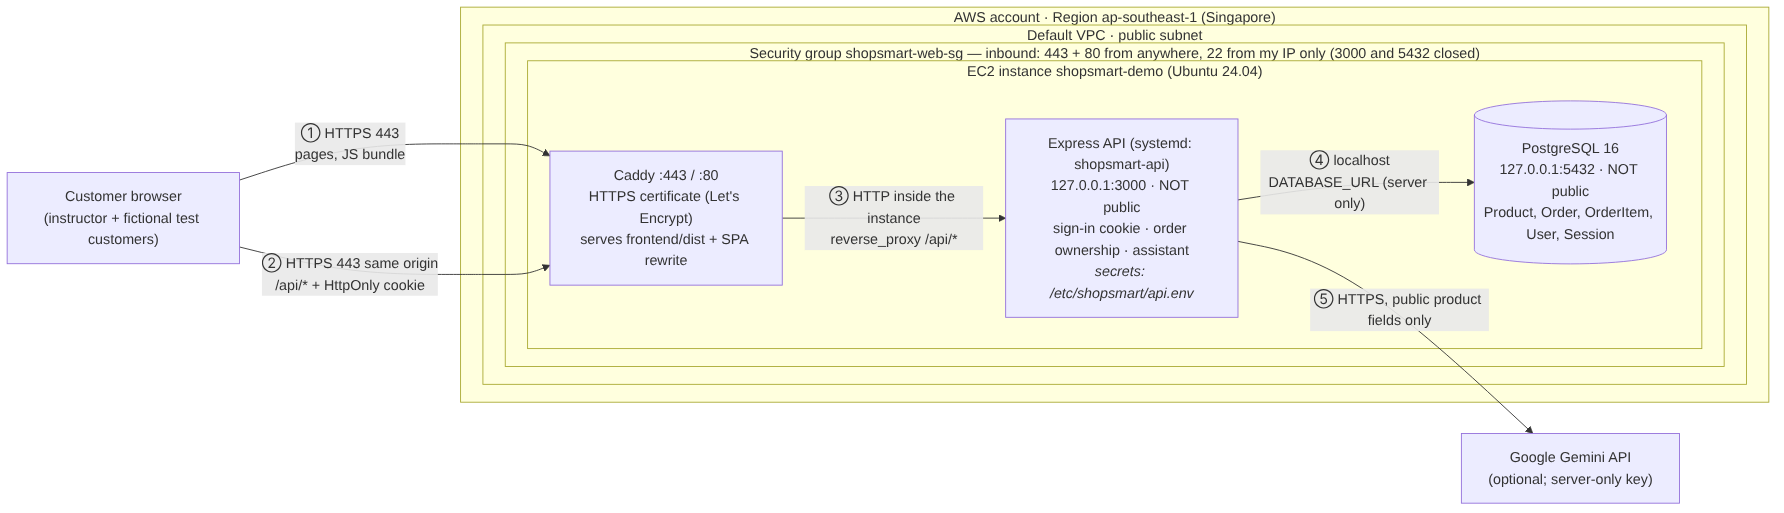
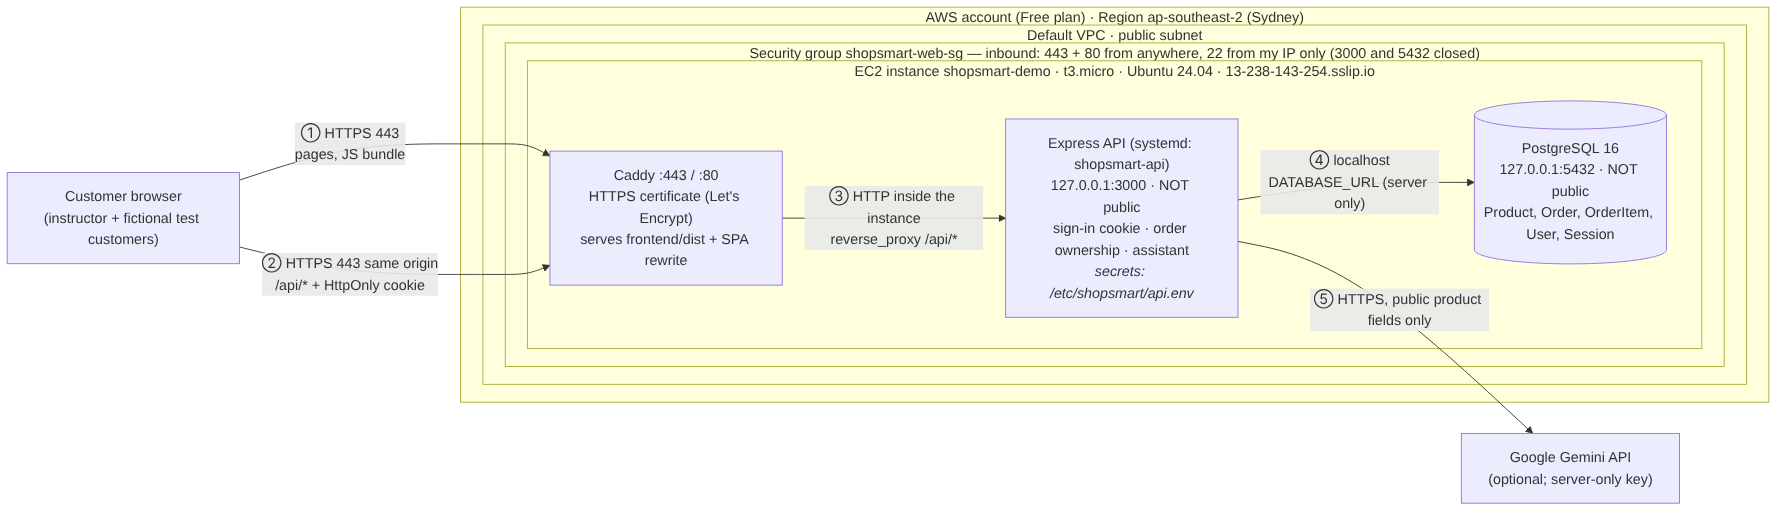
docs: record hosted AWS results for v1.2.0
- Release note, verification record and resource register filled with the real
  hosted results (21/21 before and after reboot, DB-down 200/503/200 retest)
- Region changed to ap-southeast-2 (Sydney): the Free plan project is fixed to it
- DEPLOY_AWS.md: fix Caddy log permission order, SSH keepalive, keep evidence
  files in ~ instead of /tmp, scp commands
- Failed cases F1-F3 recorded with cause, fix and retest
- Diagram re-rendered with the real Region, instance type and site address

Claude-Session: https://claude.ai/code/session_011KouwrTCNA1zyb1cfZZv31

Changed region(s): [[0.5241, 0.0, 0.7399, 0.0624], [0.4624, 0.1248, 0.7707, 0.1559]]

diff --git a/docs/AWS_VERIFICATION.md b/docs/AWS_VERIFICATION.md
@@ -1,28 +1,29 @@
 # Hosted verification record (AWS, v1.2.0)
 
-The **Expected** column was written before any test was run. Fill in **Observed** and **Result** from the real hosted site in a fresh Incognito browser. Keep the exact URL, status code and code version for every check. For a failed check, also save redacted evidence and add a row to "Failed cases".
+The **Expected** column was written before any test was run. **Observed** is from the real hosted site, tested in a fresh Incognito window on 13 Nov 2026.
 
 | | |
 | --- | --- |
-| Site URL | `https://<SITE_HOST>` = ________________________ |
-| API base | `https://<SITE_HOST>/api` (same origin) |
-| Code version | tag `v1.2.0`, commit `_______` (`git rev-parse --short HEAD` on the server) |
-| Release type | **Hosted** on AWS EC2, ap-southeast-1 (if HTTPS fails: **local**, see Plan D) |
-| Tested by / date | Lee, Prince Emmanuel C. / __ Nov 2026, __:__ to __:__ (GMT+8) |
-| Automatic run | `aws-smoke-test.json` (after deploy), `aws-smoke-after-reboot.json` (after restart) |
+| Site URL | **https://13-238-143-254.sslip.io** |
+| API base | `https://13-238-143-254.sslip.io/api` (same origin as the site) |
+| Code version | tag `v1.2.0`, commit **`3fc432f`** (checked with `git rev-parse --short HEAD` on the server) |
+| Release type | **Hosted** on AWS EC2 `shopsmart-demo` (t3.micro), Region **ap-southeast-2 (Sydney)** |
+| Tested by / date | Lee, Prince Emmanuel C. / 13 Nov 2026, 21:30–22:05 (GMT+8) |
+| Automatic runs | `aws-smoke-test.json` (21:40, **21/21**), `aws-smoke-after-reboot.json` (22:03, **21/21**) |
+| Local check before release | `npm run check`: lint, frontend tests, **backend 49/49**, build OK; local smoke **20/20** (`local-smoke-test.json`) |
 
 ## Guide checks
 
-| # | Check | Expected observation | Smoke ID / how | Observed | Result | Evidence |
-| --- | --- | --- | --- | --- | --- | --- |
-| 1 | Frontend and direct route | Home page loads with products; typing `https://<SITE_HOST>/cart` and refreshing still shows the app (no 404) | FE-01, FE-02 + browser | | | `AWS-02-home.png`, `AWS-03-direct-route-refresh.png` |
-| 2 | API connection | DevTools Network: requests go to `https://<SITE_HOST>/api/...` with no CORS or mixed-content error; `/api/health` → `{"status":"ok"}`; `/api/health/ready` → `{"status":"ok","database":"ok"}`; `http://` redirects to `https://` | API-01…04 + browser | | | `AWS-04-network-https-api.png`, `AWS-05-health-ready.png` |
-| 3 | Catalog and cart | Current products appear; search "keyboard" filters; + / − and typed quantity update totals correctly; stock limit message at max | CAT-01 + browser | | | `AWS-06-cart-totals.png` |
-| 4 | Account and order | Guest: `/api/orders/<id>` → 401. Ana (owner): 200. Ben (other customer) asking for Ana's order by direct API request → 404, and not in Ben's list | AUTH-01…08 | | | `aws-smoke-test.json`, `AWS-07-my-orders-ana.png`, `AWS-08-ben-denied.png` |
-| 5 | Simulated checkout | Signed in as Ana: fictional order saved with an order number, stock drops by the quantity; quantity 0 → 422; more than stock → 409 and nothing saved | ORD-01…04 + browser | | | `AWS-09-order-confirmed.png` |
-| 6 | Assistant | "Which keyboard is below ₱2,000?" → Compact Mechanical Keyboard ₱1,850 with a catalog source link that opens the right product; "Do you sell drones?" → honest "could not find"; provider failure → notice that the answer came from the catalog | AI-01, AI-02 + browser | | | `AWS-10-assistant.png`, `AWS-11-assistant-no-match.png` |
-| 7 | Restart and logs | After `sudo reboot` the site works again without manual steps; Ana's earlier order is still in My Orders; the API log shows each request's status and has no secrets | rerun smoke + log grep | | | `aws-smoke-after-reboot.json`, `aws-api-log-after-reboot.txt` |
-| 8 | Secrets and credits | No `.env`, `.pem` or key in Git (`git ls-files`); bundle grep clean; screenshots blurred; credits still within plan after the demo | Step 5 grep, Billing page | | | `AWS-12-credits-after.png` |
+| # | Check | Expected observation | Observed on the hosted site | Result | Evidence |
+| --- | --- | --- | --- | --- | --- |
+| 1 | Frontend and direct route | Home page loads with products; typing `/cart` directly still shows the app (no 404) | Home 200 with 6 products; `/cart` and `/orders/123` typed directly → 200, the app loads (Caddy SPA rewrite) | **Pass** | `AWS-02-home.png`, `AWS-03-direct-route-refresh.png`, smoke FE-01/02 |
+| 2 | API connection | Browser calls `https://<site>/api/...` with no CORS or mixed-content error; `/api/health` ok; `/api/health/ready` database ok; `http://` redirects to `https://` | Network: `products` 200 from the same HTTPS origin, no CORS error; `/api/health` `{"status":"ok"}`; `/api/health/ready` `{"status":"ok","database":"ok"}`; `http://` → **308** to HTTPS; CORS allows only `https://13-238-143-254.sslip.io` | **Pass** | `AWS-04-network-https-api.png`, `AWS-05-health-ready.png`, smoke API-01…04 |
+| 3 | Catalog and cart | Current products appear; quantity and totals correct | 6 products from PostgreSQL; 2 × USB-C Study Lamp = ₱1,800 | **Pass** | `AWS-06-cart-totals.png`, smoke CAT-01 |
+| 4 | Account and order | Guest → 401; owner → 200; another customer by direct API request → 404 and not listed | Guest `/api/orders` and `/api/orders/3` → **401**; Ana → **200**; Ben `/api/orders/3` → **404**, `leaked=false`; in the browser, Ben at `/orders/1` → "This order could not be found in your account."; cookie flags `HttpOnly, Secure, SameSite=Lax`; old cookie after sign-out → 401 | **Pass** | `AWS-07-my-orders-ana.png`, `AWS-08a-ben-orders-empty.png`, `AWS-08b-ben-denied-order-1.png`, smoke AUTH-01…08 |
+| 5 | Simulated checkout | Valid fictional order saved; quantity 0 → 422; more than stock → 409, nothing saved | Ana's order #2 ₱1,800.00 confirmed in the browser; smoke: quantity 0 → **422**, 13 × mouse (stock 12) → **409**, valid → **201** order #1, stock 12 → 11 | **Pass** | `AWS-09-order-confirmed.png`, smoke ORD-01…04 |
+| 6 | Assistant | Keyboard question → Compact Mechanical Keyboard ₱1,850 with a catalog source; "drones" → honest no-match; provider failure → clear notice | Keyboard ₱1,850 with source "Catalog product #2", price equals the database; "Do you sell drones?" → "could not find", 0 recommended; Gemini answered **HTTP 503** (log: `reason=ai_unavailable status=503`), so the page showed "The AI helper could not be used for this answer, so it comes straight from the catalog." | **Pass** (provider-failure path) | `AWS-10-assistant.png`, `AWS-11-assistant-no-match.png`, smoke AI-01/02, `aws-api-log-after-reboot.txt` |
+| 7 | Restart and logs | After `sudo reboot` the site works with no manual steps; earlier orders still there; logs show each request and no secrets | `up 2 min`; services `enabled`; smoke after reboot **21/21**; next order is **#3** and stock went 11 → 10, so orders #1–#2 and stock survived; log lines show method, path, status, time only; `grep` for `postgresql://`, `password=`, `AIza`, `GEMINI_API_KEY` → **OK: no secrets in API log** | **Pass** | `AWS-15-smoke-after-reboot-21-of-21.png`, `aws-smoke-after-reboot.json`, `aws-api-log-after-reboot.txt` |
+| 8 | Secrets and credits | No secret in the repository, browser bundle or screenshots; credits within plan | Bundle grep → `OK: bundle is clean`; `/etc/shopsmart/api.env` is `-rw-r----- root shopsmart`; `.env`, `*.pem` and `api.env` are in `.gitignore`; screenshots cropped (no account ID or passwords); credits US$137 on 13 Nov | **Pass** (credits after the demo: fill in) | `AWS-01-security-group.png`, `AWS_RESOURCE_REGISTER.md` |
 
 ## The two improvements and their retests
 
@@ -32,26 +33,28 @@ The exam's own list of required improvements was not available to me, so I chose
 
 | | |
 | --- | --- |
-| Problem before | ShopSmart had no sign-in. The guide requires a test customer to sign in and the API to protect private order records. v1.1 had no way to read an order back and no owner on orders. |
-| Change | `User` and `Session` tables + migration `1_add_users_sessions_order_owner`; `POST /api/auth/login`, `POST /api/auth/logout`, `GET /api/auth/me`; scrypt password hashes; random session token in an `HttpOnly; Secure; SameSite=Lax` cookie (only its SHA-256 hash is stored); checkout requires sign-in and saves `userId` from the session; `GET /api/orders` and `GET /api/orders/:id` return only the signed-in customer's orders; Sign-in and My Orders pages. |
-| Retest (expected) | Guest → 401 · Ana reads own order → 200 · Ben reads Ana's order → 404 · Ben's list excludes it · wrong password → 401, no cookie · old cookie after sign-out → 401 · cookie flags HttpOnly, Secure, SameSite=Lax |
-| Retest (observed) | Local `npm run check`: ____ · Hosted smoke AUTH-01…08: ____ |
+| Problem before | ShopSmart had no sign-in, but the guide requires a test customer to sign in and the API to protect private order records. v1.1 had no way to read an order back and no owner on orders. |
+| Change | `User` and `Session` tables + migration `1_add_users_sessions_order_owner`; `POST /api/auth/login`, `POST /api/auth/logout`, `GET /api/auth/me`; scrypt password hashes; a random session token in an `HttpOnly; Secure; SameSite=Lax` cookie (only its SHA-256 hash is stored); checkout requires sign-in and saves `userId` from the session; `GET /api/orders` and `GET /api/orders/:id` return only the signed-in customer's orders; Sign-in and My Orders pages. |
+| Retest (expected) | Guest → 401 · Ana reads her own order → 200 · Ben reads Ana's order → 404 · Ben's list excludes it · wrong password → 401 and no cookie · old cookie after sign-out → 401 · cookie flags HttpOnly, Secure, SameSite=Lax |
+| Retest (observed) | **Local:** `npm run check` backend 49/49; browser: Ben at `/orders/11` → "could not be found"; smoke 20/20. **Hosted:** smoke AUTH-01…08 all pass, twice (before and after reboot); browser: Ben at `/orders/1` → "could not be found". **Pass.** |
 
 ### Improvement 2: Health check that tests the database
 
 | | |
 | --- | --- |
-| Problem before | `/api/health` always answered `{"status":"ok"}` even when PostgreSQL was down, so a "green" health check did not prove products or checkout could work (v1.1 known limitation). |
-| Change | New `GET /api/health/ready` runs `SELECT 1` with a 3-second limit: 200 `{"status":"ok","database":"ok"}` or 503 `{"status":"error","database":"unreachable"}`; the log names only the error code (e.g. `P1001`), never the connection string. `/api/health` stays a simple "process is alive" check. |
-| Retest (expected) | Normal → 200 database ok · with PostgreSQL stopped (`sudo systemctl stop postgresql`) → 503 within about 3 s, while `/api/health` still says ok · log line has a code and no password · after `sudo systemctl start postgresql` → 200 again |
-| Retest (observed) | Local tests: ____ · Hosted: normal ____ / DB stopped ____ / DB started ____ |
+| Problem before | `/api/health` always answered `{"status":"ok"}`, even when PostgreSQL was down, so a "green" health check did not prove products or checkout could work (v1.1 known limitation). |
+| Change | New `GET /api/health/ready` runs `SELECT 1` with a 3-second limit: 200 `{"status":"ok","database":"ok"}` or 503 `{"status":"error","database":"unreachable"}`. The log names only the error code, never the connection string. `/api/health` stays a simple "process is alive" check. |
+| Retest (expected) | Normal → 200 database ok · PostgreSQL stopped → 503 while `/api/health` still says ok · log line has a code and no password · PostgreSQL started → 200 again |
+| Retest (observed, on the EC2 server, 13 Nov 2026 21:59) | Normal → `{"status":"ok","database":"ok"}` **HTTP 200** · `sudo systemctl stop postgresql` → `/ready` `{"status":"error","database":"unreachable"}` **HTTP 503**, `/health` `{"status":"ok"}` **HTTP 200** · log: `health/ready database check failed: P1001` (no password) · `sudo systemctl start postgresql` → **HTTP 200** again. **Pass.** Evidence: `AWS-13-db-down-ready-503.png`. |
 
-## Failed cases (fill in if any check fails)
+## Failed cases and how they were fixed
 
-| Check # | Time | URL | Status code | Code version | What happened | First failed connection (from the log) | Fix | Retest result |
-| --- | --- | --- | --- | --- | --- | --- | --- | --- |
-| | | | | | | | | |
+| # | Time (GMT+8) | Where | What happened | First failed connection / cause (from the log) | Fix | Retest |
+| --- | --- | --- | --- | --- | --- | --- |
+| F1 | 20:08 | Local PC, `npm run db:migrate` | Prisma wanted to **reset** the local database ("All data will be lost") | The database history had an old migration `20260910114042_initial_schema` that is not in the project. `migrate dev` treats that as drift. | Answered no (nothing lost); backed up with `pg_dump`; checked with `prisma migrate diff` that only the new tables were missing; removed the stray history row; applied with `prisma migrate deploy` | `db:status` → "Database schema is up to date!", old orders kept |
+| F2 | 21:31 | EC2, `systemctl reload caddy` | Caddy refused the new configuration, so no HTTPS yet | `open /var/log/caddy/shopsmart-access.log: permission denied`. `sudo caddy validate` had created the log file as root, and Caddy runs as user `caddy`. | `sudo chown -R caddy:caddy /var/log/caddy`, then `systemctl restart caddy`. `DEPLOY_AWS.md` Step 8 corrected (chown after validate). | `active (running)`, "certificate obtained successfully" for `13-238-143-254.sslip.io` |
+| F3 | 21:38 | PC → hosted smoke test | AUTH-03 failed, 9/11 | `DEMO_PASSWORD` was set to the placeholder text, not the server password. The server correctly answered 401. | Set the real server demo password | 21/21 at 21:40 |
 
 ## Screenshot rules
 
-Blur or crop: AWS account ID, email, `/etc/shopsmart/api.env`, any password, key, cookie value or `DATABASE_URL`. The public IP and `<SITE_HOST>` may be shown, because they are the submitted site URL.
+Account ID, email, `/etc/shopsmart/api.env`, passwords, keys, cookie values and `DATABASE_URL` are never shown. The public IP and the site address are shown, because they are the submitted site URL.

diff --git a/docs/RELEASE_NOTE.md b/docs/RELEASE_NOTE.md
@@ -2,57 +2,62 @@
 
 | | |
 | --- | --- |
-| Version and date | v1.2.0, __ November 2026 |
-| Code | Branch `feature/aws-signin-deploy` → merged to `main` → tag `v1.2.0`, commit `_______` |
-| Release type | **Hosted** on AWS (fill in) / **Local** (only if HTTPS could not be obtained; see `DEPLOY_AWS.md` Step 8 Plan D) |
-| Site URL | `https://________________.sslip.io` |
-| Tested URLs | `/`, `/cart` (direct), `/orders/<id>` (direct), `/api/health`, `/api/health/ready`, `/api/products`, `/api/auth/*`, `/api/orders`, `/api/orders/<id>`, `/api/assistant/questions` |
-| AWS account plan | Free / Paid (fill in) · credits remaining before ____ / after ____ · plan expiry ____ |
-| AWS services | Amazon EC2 (one `t3.micro`/`t2.micro`-class instance, Ubuntu 24.04), Amazon EBS (root volume, 20 GiB gp3), VPC security group, public IPv4 address. No RDS, no Amplify (see `AWS_DECISION_RECORD.md`). |
-| Region | ap-southeast-1, Asia Pacific (Singapore) |
-| On the instance | Caddy (HTTPS, static files, reverse proxy) → Express API (systemd, 127.0.0.1:3000) → PostgreSQL 16 (127.0.0.1:5432) |
-| AI provider | Google Gemini with a server-only key **or** none (fill in). Without a key, answers are rule-based catalog answers and the page shows a notice saying so. |
-| Final local check | `npm run check`: ____ (lint, frontend tests, backend tests, build) |
+| Version and date | **v1.2.0**, 13 November 2026 |
+| Code | PR #9 merged into `main`; tag **`v1.2.0`**, commit **`3fc432f`** (the same commit runs on the server) |
+| Release type | **Hosted** on AWS |
+| Site URL | **https://13-238-143-254.sslip.io** |
+| Tested URLs | `/`, `/cart` and `/orders/<id>` opened directly, `/api/health`, `/api/health/ready`, `/api/products`, `/api/auth/login`, `/api/auth/me`, `/api/auth/logout`, `/api/orders`, `/api/orders/<id>`, `/api/assistant/questions`, plus `http://` → `https://` |
+| AWS account plan | **Free plan**: US$137 credits and 178 days left on 13 Nov 2026 (about 10 May 2027). Credits after the demo: ____ |
+| AWS services | **Amazon EC2** (one `t3.micro`, Ubuntu 24.04), **Amazon EBS** (20 GiB gp3 root volume), **VPC security group** `shopsmart-web-sg`, one auto-assigned **public IPv4** address. No RDS and no Amplify (see `AWS_DECISION_RECORD.md`). |
+| Region | **ap-southeast-2, Asia Pacific (Sydney)**. The account's Free plan project is fixed to this Region. |
+| On the instance | Caddy (HTTPS from Let's Encrypt, static files, reverse proxy) → Express API (systemd `shopsmart-api`, 127.0.0.1:3000) → PostgreSQL 16 (127.0.0.1:5432) |
+| AI provider | Google Gemini with a **server-only** key. During the hosted tests Gemini answered HTTP 503 (temporarily unavailable), so the assistant used its rule-based catalog answer and showed the fallback notice. |
+| Final checks | Local `npm run check` passed (backend 49/49, build OK); local smoke 20/20; **hosted smoke 21/21, and 21/21 again after a reboot** |
 
 ## What is new in v1.2.0
 
-1. **Sign-in and order ownership (improvement 1).** Fictional test customers `ana.demo@example.com` and `ben.demo@example.com` can sign in. Checkout requires sign-in and saves the order owner from the session. **My Orders** lists only your own orders. A guest gets 401, and another customer gets 404 for an order that is not theirs.
-2. **Database readiness check (improvement 2).** `GET /api/health/ready` answers 503 when PostgreSQL cannot be reached, instead of a misleading "ok".
+1. **Sign-in and order ownership (improvement 1).** Fictional test customers `ana.demo@example.com` and `ben.demo@example.com` can sign in. Checkout requires sign-in and takes the order owner from the session. **My Orders** lists only your own orders. A guest gets 401; another customer gets 404 for an order that is not theirs.
+2. **Database readiness check (improvement 2).** `GET /api/health/ready` answers 503 when PostgreSQL cannot be reached, instead of a misleading "ok". Tested by stopping PostgreSQL on the server: 200 → 503 → 200.
 3. **AWS deployment files:** `deploy/Caddyfile`, `deploy/shopsmart-api.service`, `deploy/api.env.example`, `deploy/backup-db.sh`, and `deploy/smoke-test.mjs` (automatic hosted checks).
-4. Express can listen only on `127.0.0.1` (`HOST`). CORS allows cookies from `FRONTEND_URL` only.
+4. Express listens only on `127.0.0.1` (`HOST`). CORS allows cookies from `FRONTEND_URL` only.
 
 ## Database changes
 
 | Migration | What it does | Data kept? |
 | --- | --- | --- |
 | `0_init` | Product, Order, OrderItem (from v1.1) | n/a |
-| `1_add_users_sessions_order_owner` | adds `User`, `Session`, and a nullable `Order.userId` with indexes | **Yes.** Only adds; earlier orders stay with no owner |
+| `1_add_users_sessions_order_owner` | Adds `User`, `Session`, and a nullable `Order.userId` with indexes | **Yes.** Only adds; earlier orders stay with no owner |
 
-On the server, `prisma migrate deploy` runs before each start of the service. `npm run db:seed` is never run there. The first start adds sample products only if the table is empty. Evidence: `release-evidence/aws-migrate-status.txt`.
+On the server, `prisma migrate deploy` runs before every start of the service, and the first start added the 6 sample products because the table was empty. `npm run db:seed` was never run on the server. After the reboot, orders #1 and #2 were still there (the next order was #3). Migration history: `release-evidence/aws-migrate-status.txt` ("2 migrations found … Database schema is up to date!").
 
-## Verification summary (hosted)
+## Verification summary (hosted, 13 Nov 2026)
 
-Full table with expected and observed results: `AWS_VERIFICATION.md`. Automatic results: `release-evidence/aws-smoke-test.json` and `release-evidence/aws-smoke-after-reboot.json`.
+Full table with expected and observed results: `AWS_VERIFICATION.md`.
 
 | Check | Result |
 | --- | --- |
-| Frontend and direct route | ____ |
-| API connection (HTTPS, same origin, health + ready) | ____ |
-| Catalog and cart | ____ |
-| Account and order ownership | ____ |
-| Simulated checkout (valid / invalid / excess) | ____ |
-| Assistant (grounded answer / no match / fallback) | ____ |
-| Restart and logs | ____ |
-| Secrets and credits | ____ |
+| Frontend and direct route | **Pass** |
+| API connection (HTTPS, same origin, health + ready, HTTP → 308) | **Pass** |
+| Catalog and cart | **Pass** |
+| Account and order ownership (401 / 200 / 404) | **Pass** |
+| Simulated checkout (201 / 422 / 409, stock decreases) | **Pass** |
+| Assistant (grounded answer / no match / provider-failure fallback) | **Pass** |
+| Restart and logs (21/21 after reboot, no secrets in log) | **Pass** |
+| Secrets and credits | **Pass** (credits after the demo: fill in) |
+
+Two problems were found and fixed during deployment: a stale local migration history (F1) and Caddy's log file permission (F2). Details are in `AWS_VERIFICATION.md`, "Failed cases".
 
 ## Known limitations
 
-- **Single EC2 host:** if the instance is down, the whole site is down. No automatic database backups; I run `deploy/backup-db.sh` by hand before changes.
-- **Demo accounts only:** there is no self-registration, no password reset and no admin role. Both demo customers share one demo password, created on the server and never committed.
-- **Free host name:** `sslip.io` depends on an outside DNS service and Let's Encrypt limits. If the instance is stopped and started, its IP and therefore the site address change.
-- The **cart** is still kept in memory: a full page refresh empties it. Navigating to sign-in inside the app keeps it.
+- **Single EC2 host:** if the instance is down, the whole site is down. There are no automatic database backups; `deploy/backup-db.sh` is run by hand before changes.
+- **Demo accounts only:** no self-registration, password reset or admin role. Both demo customers share one demo password, created on the server and never committed.
+- **Free host name:** `sslip.io` depends on an outside DNS service and Let's Encrypt limits. A stop/start of the instance changes the public IP and therefore the site address (a reboot does not).
+- **Region:** Sydney instead of the closer Singapore, because the Free plan project is fixed to Sydney.
+- **Dependencies:** `npm ci` reports 17 known vulnerabilities in third-party packages (4 moderate, 8 high, 5 critical). Not fixed in this release, because `npm audit fix --force` can upgrade packages to versions that break the app. To review before any real use.
+- **AI provider** can be unavailable (seen as HTTP 503 during testing). The assistant then answers from the catalog and says so.
+- The **cart** is kept in memory: a full page refresh empties it.
 - The **Render** staging from v1.1 does not support sign-in (cross-site cookie). See the note in `DEPLOY_RENDER.md`.
-- Free/credit plan: resources are removed after grading (`DEPLOY_AWS.md` Step 12; dates in `AWS_RESOURCE_REGISTER.md`).
+- Resources are removed after grading (`DEPLOY_AWS.md` Step 12; dates in `AWS_RESOURCE_REGISTER.md`).
 
 ## Previous release
 

diff --git a/docs/DEPLOY_AWS.md b/docs/DEPLOY_AWS.md
@@ -1,6 +1,6 @@
 # Deploying ShopSmart to AWS (single EC2 host)
 
-Release **v1.2.0** · Region **ap-southeast-1 (Asia Pacific, Singapore)** · Layout: **one EC2 instance** running Caddy (HTTPS), the Express API and PostgreSQL.
+Release **v1.2.0** · Region **ap-southeast-2 (Asia Pacific, Sydney)** · Layout: **one EC2 instance** running Caddy (HTTPS), the Express API and PostgreSQL.
 Why this layout: see `AWS_DECISION_RECORD.md`. Picture: `deployment-diagram-aws.png`.
 
 > **Golden rules.** Fictional data only. Never paste the database password, the demo password, a Gemini key or the `.pem` key into Git, chat or a screenshot. Write down every resource you create in `AWS_RESOURCE_REGISTER.md`.
@@ -23,7 +23,7 @@ Placeholders used below:
    - Write down: plan (**Free** or **Paid**), **credits remaining**, **credit/plan expiry date**.
    - Take a screenshot → blur the account ID and email → save as `docs/release-evidence/AWS-00-account-plan-credits.png`.
 3. **Budgets → Create budget → "Zero spend budget"** (or a monthly cost budget of US$1) with your email. You get an email if anything starts costing money.
-4. Top-right Region selector: choose **Asia Pacific (Singapore) ap-southeast-1**. Every resource below goes in this Region.
+4. Use **one Region** for every resource below. The plan was Singapore (ap-southeast-1), but this account's Free plan *project* ("Lift Off Soon") is fixed to **Asia Pacific (Sydney) ap-southeast-2**, and its console shows no Region selector. So everything was created in **ap-southeast-2**. Check `region=` in the console address bar.
 
 ## Step 1. Launch the EC2 instance
 
@@ -52,8 +52,10 @@ Screenshot the security group's inbound rules → `AWS-01-security-group.png`.
 cd C:\path\to\folder\with\key
 icacls .\shopsmart-key.pem /inheritance:r
 icacls .\shopsmart-key.pem /grant:r "$($env:USERNAME):(R)"
-ssh -i .\shopsmart-key.pem ubuntu@<PUBLIC_IP>
+ssh -o ServerAliveInterval=60 -i .\shopsmart-key.pem ubuntu@<PUBLIC_IP>
 ```
+
+The key downloads into `Downloads`. Move it first: `Move-Item "$HOME\Downloads\shopsmart-key.pem" "$HOME\.ssh\"`. `ServerAliveInterval=60` stops an idle SSH window from dropping (`Connection aborted`).
 
 Type `yes` the first time. The prompt changes to `ubuntu@ip-…:~$`. **All the next steps run on the server.**
 
@@ -159,10 +161,10 @@ In the log, look for: `All migrations have been successfully applied.` (or `No p
 curl -s http://127.0.0.1:3000/api/health/ready      # {"status":"ok","database":"ok"}
 
 # Migration history (evidence for the deployment plan): both 0_init and 1_add_users_sessions_order_owner applied
-sudo -u shopsmart bash -c 'set -a; source /etc/shopsmart/api.env; set +a; cd /opt/shopsmart/backend && /opt/shopsmart/node_modules/.bin/prisma migrate status' | tee /tmp/aws-migrate-status.txt
+sudo -u shopsmart bash -c 'set -a; source /etc/shopsmart/api.env; set +a; cd /opt/shopsmart/backend && /opt/shopsmart/node_modules/.bin/prisma migrate status' > ~/aws-migrate-status.txt 2>&1; tail -2 ~/aws-migrate-status.txt
 ```
 
-Copy `/tmp/aws-migrate-status.txt` into `docs/release-evidence/` later. It contains no secrets, but check it before you commit it.
+Save it in your home folder, not `/tmp`, because `/tmp` is emptied when the server reboots. Copy it to your PC later with `scp` (Step 10). It contains no secrets.
 
 Create the two **fictional** test customers (Ana and Ben). The password is printed **once**. Save it privately (not in Git, not in a screenshot):
 
@@ -175,9 +177,11 @@ sudo -u shopsmart bash -c 'set -a; source /etc/shopsmart/api.env; set +a; cd /op
 ```bash
 cd /opt/shopsmart
 sed "s/SHOPSMART_HOST/${SITE_HOST}/" deploy/Caddyfile | sudo tee /etc/caddy/Caddyfile > /dev/null
-sudo mkdir -p /var/log/caddy && sudo chown caddy:caddy /var/log/caddy
 sudo caddy validate --config /etc/caddy/Caddyfile
-sudo systemctl reload caddy
+# validate runs as root and creates the access log owned by root. Give the folder back to Caddy
+# AFTER validating, or the reload fails with "open /var/log/caddy/shopsmart-access.log: permission denied".
+sudo mkdir -p /var/log/caddy && sudo chown -R caddy:caddy /var/log/caddy
+sudo systemctl restart caddy
 sudo journalctl -u caddy -n 40 --no-pager | grep -iE "certificate obtained|error"
 ```
 
@@ -193,7 +197,7 @@ Open `https://<SITE_HOST>` in a browser. The padlock should show a valid certifi
 On **your own PC**, in the project folder (Node 22 is already installed):
 
 ```powershell
-$env:DEMO_PASSWORD="<the demo password from Step 7>"
+$env:DEMO_PASSWORD="<the demo password from Step 7>"   # the real SERVER password, not this text
 node deploy/smoke-test.mjs https://<SITE_HOST> --out docs/release-evidence/aws-smoke-test.json
 Remove-Item Env:DEMO_PASSWORD
 ```
@@ -208,7 +212,7 @@ Then do the **browser checks** in a fresh Incognito window and take the screensh
 sudo reboot
 ```
 
-Wait 1–2 minutes, then from your PC run the smoke test again with `--out docs/release-evidence/aws-smoke-after-reboot.json`.
+Wait 1–2 minutes, then from your PC (inside the project folder) run the smoke test again with `--out docs/release-evidence/aws-smoke-after-reboot.json`.
 Sign in as Ana in the browser: **My Orders still shows the order from Step 9** (data survived the restart).
 
 Back on the server:
@@ -219,7 +223,15 @@ sudo journalctl -u shopsmart-api -b --no-pager | tail -20      # started automat
 sudo journalctl -u shopsmart-api --no-pager | grep -iE "postgresql://|password=|AIza|GEMINI_API_KEY" && echo "SECRET FOUND IN LOG" || echo "OK: no secrets in API log"
 ```
 
-Save the last 20 log lines as `docs/release-evidence/aws-api-log-after-reboot.txt`. Read it first and remove anything private.
+Save the log and copy both evidence files to your PC:
+
+```bash
+sudo journalctl -u shopsmart-api -b --no-pager | tail -20 > ~/aws-api-log-after-reboot.txt
+```
+```powershell
+scp -i $HOME\.ssh\shopsmart-key.pem "ubuntu@<PUBLIC_IP>:~/aws-*.txt" docs/release-evidence/
+```
+Read them before committing. They hold request lines only (method, path, status, time).
 
 ## Step 11. Updating the code later
 
@@ -238,7 +250,7 @@ sudo systemctl restart shopsmart-api          # runs "prisma migrate deploy" bef
 
 1. EC2 → Instances → `shopsmart-demo` → **Terminate**. (Check that the root volume has "Delete on termination = Yes"; then the disk and the database are deleted with it.)
 2. EC2 → Security Groups → delete `shopsmart-web-sg`. Key Pairs → delete `shopsmart-key`, and delete the `.pem` file.
-3. Check EC2 → **Volumes**, **Snapshots** and **Elastic IPs** are empty in ap-southeast-1.
+3. Check EC2 → **Volumes**, **Snapshots** and **Elastic IPs** have nothing left from ShopSmart in ap-southeast-2. Leave the SAM10 `libralink-server` resources alone; they belong to another project.
 4. Delete the Gemini staging key if you made one.
 5. A day later, open Billing and confirm nothing is still using credits. Update `AWS_RESOURCE_REGISTER.md` with the removal date.
 

diff --git a/docs/AWS_RESOURCE_REGISTER.md b/docs/AWS_RESOURCE_REGISTER.md
@@ -1,34 +1,39 @@
 # AWS resource register
 
-Fill this in **while** you create each resource. No passwords, keys, account IDs or connection strings here.
+No passwords, keys, account IDs or connection strings are kept here.
 
 ## Account
 
 | Item | Value |
 | --- | --- |
-| Account plan (Free or Paid) | ________ |
-| Credits remaining on __/__/2026 | US$ ________ |
-| Plan / credit expiry date | ________ |
-| Root MFA on? | Yes / No |
-| Budget alert created? | Yes / No (name: ________) |
-| Evidence | `release-evidence/AWS-00-account-plan-credits.png` (account ID and email blurred) |
+| Account plan | **Free plan** (checked 13 Nov 2026) |
+| Credits remaining on 13 Nov 2026 | **US$137** |
+| Plan / credit expiry | **178 days left** on 13 Nov 2026, so about **10 May 2027** |
+| Root MFA on? | **Yes** |
+| Budget alert created? | Yes / No (fill in: name ________) |
+| AWS project | Free plan project "Lift Off Soon", fixed to Region **ap-southeast-2 (Sydney)** |
+| Who else can see these resources | Project members: the owner (me) and my SAM10 partner, added through the Team page for SAM10. ShopSmart is my individual work; the partner did not change these resources. |
+| Other resources in the same project | `libralink-server` (SAM10 project). **Not part of ShopSmart.** Left untouched. |
+| Evidence | `release-evidence/AWS-00-account-plan-credits.png` (account ID and email covered) |
 
-## Resources
+## Resources created for ShopSmart
 
-| Service | Name | Region | Owner | Purpose | Created | Planned removal | Removed (date) |
+All tagged `Owner=Lee`, `Purpose=PDC50 ShopSmart demo`, `RemoveBy=2026-11-30` (instance and volume).
+
+| Service | Name / ID | Region | Owner | Purpose | Created | Planned removal | Removed (date) |
 | --- | --- | --- | --- | --- | --- | --- | --- |
-| EC2 instance | `shopsmart-demo` | ap-southeast-1 | Lee, P. E. C. | Runs Caddy, Express API, PostgreSQL | ____ | after grading: ____ | ____ |
-| EBS volume (root, 20 GiB gp3) | attached to `shopsmart-demo` | ap-southeast-1 | Lee, P. E. C. | Disk for OS, code and database | ____ | deleted with the instance | ____ |
-| Public IPv4 address | auto-assigned to `shopsmart-demo` | ap-southeast-1 | Lee, P. E. C. | Public address for `<SITE_HOST>` | ____ | released with the instance | ____ |
-| Security group | `shopsmart-web-sg` | ap-southeast-1 | Lee, P. E. C. | 443/80 public, 22 my IP only | ____ | after the instance | ____ |
-| Key pair | `shopsmart-key` | ap-southeast-1 | Lee, P. E. C. | SSH access to the instance | ____ | after the instance | ____ |
-| Budget | ________ | global | Lee, P. E. C. | Email alert on any spend | ____ | keep or delete after grading | ____ |
-| (optional) Gemini API key | ShopSmart staging key | outside AWS (Google) | Lee, P. E. C. | Live AI drafts | ____ | after grading | ____ |
+| EC2 instance | `shopsmart-demo` (`i-0245833c019d259a1`), t3.micro, Ubuntu 24.04 | ap-southeast-2 | Lee, P. E. C. | Runs Caddy, Express API, PostgreSQL 16 | 13 Nov 2026 | after grading, by 30 Nov 2026 | ____ |
+| EBS volume | root volume of `shopsmart-demo`, 20 GiB gp3 | ap-southeast-2 | Lee, P. E. C. | Disk for OS, code and database | 13 Nov 2026 | deleted with the instance | ____ |
+| Public IPv4 address | `13.238.143.254`, auto-assigned (not an Elastic IP) | ap-southeast-2 | Lee, P. E. C. | Site address `13-238-143-254.sslip.io` | 13 Nov 2026 | released with the instance | ____ |
+| Security group | `shopsmart-web-sg` (`sg-070ef97ceb96a2909`) | ap-southeast-2 | Lee, P. E. C. | 443/80 from anywhere, 22 from my IP only | 13 Nov 2026 | after the instance | ____ |
+| Key pair | `shopsmart-key` (RSA, .pem kept outside the project) | ap-southeast-2 | Lee, P. E. C. | SSH to the instance | 13 Nov 2026 | after the instance | ____ |
+| Gemini API key (outside AWS) | server key in `/etc/shopsmart/api.env` | Google | Lee, P. E. C. | Optional AI drafts | 13 Nov 2026 | delete after grading | ____ |
 
-## Expected duration
+## Expected duration and cost
 
 | | |
 | --- | --- |
-| Demo window | from ____ to ____ |
+| Demo window | 13 Nov 2026 until grading, at the latest 30 Nov 2026 |
 | Why it matters | The instance, its disk and its public IPv4 address use credits every hour while they exist, even when nobody visits. |
-| Removal plan | `DEPLOY_AWS.md` Step 12, on ____. Re-check Billing one day later. |
+| Rough cost | About US$0.50 a day for t3.micro + 20 GiB gp3 + one public IPv4 (estimate; check Billing). About US$9 at most for the whole window, paid from credits. |
+| Removal plan | `DEPLOY_AWS.md` Step 12. Check Billing again one day after removal. |

diff --git a/docs/AWS_DECISION_RECORD.md b/docs/AWS_DECISION_RECORD.md
@@ -2,10 +2,10 @@
 
 | | |
 | --- | --- |
-| Status | Accepted for the classroom demo, 13 Nov 2026 |
+| Status | Accepted and deployed, 13 Nov 2026 (`https://13-238-143-254.sslip.io`) |
 | Author | Lee, Prince Emmanuel C. (individual deployment) |
 | Release | v1.2.0 |
-| Region | ap-southeast-1, Asia Pacific (Singapore): closest Region to the Philippines |
+| Region | **ap-southeast-2, Asia Pacific (Sydney).** Planned: ap-southeast-1 (Singapore), the closest Region to the Philippines. The account's Free plan project is fixed to Sydney and shows no Region selector, so Sydney was used. The demo is a little slower from the Philippines, which is acceptable for a class demo. |
 
 ## What we had to decide
 
